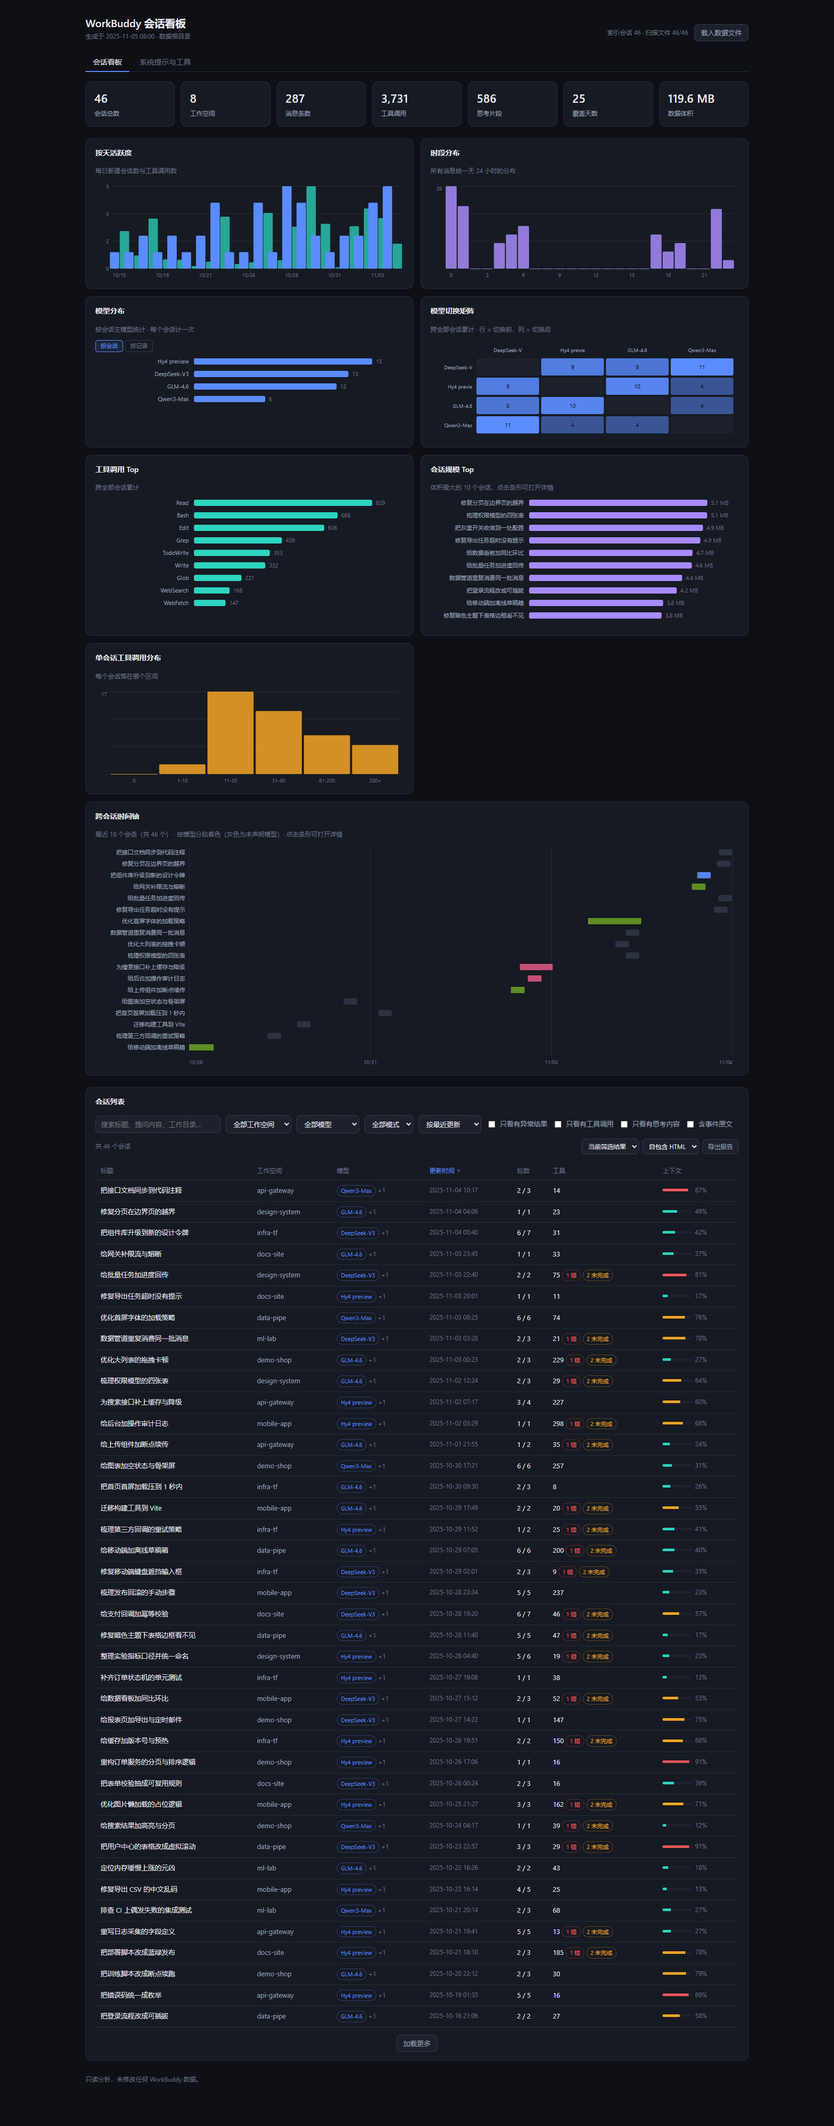
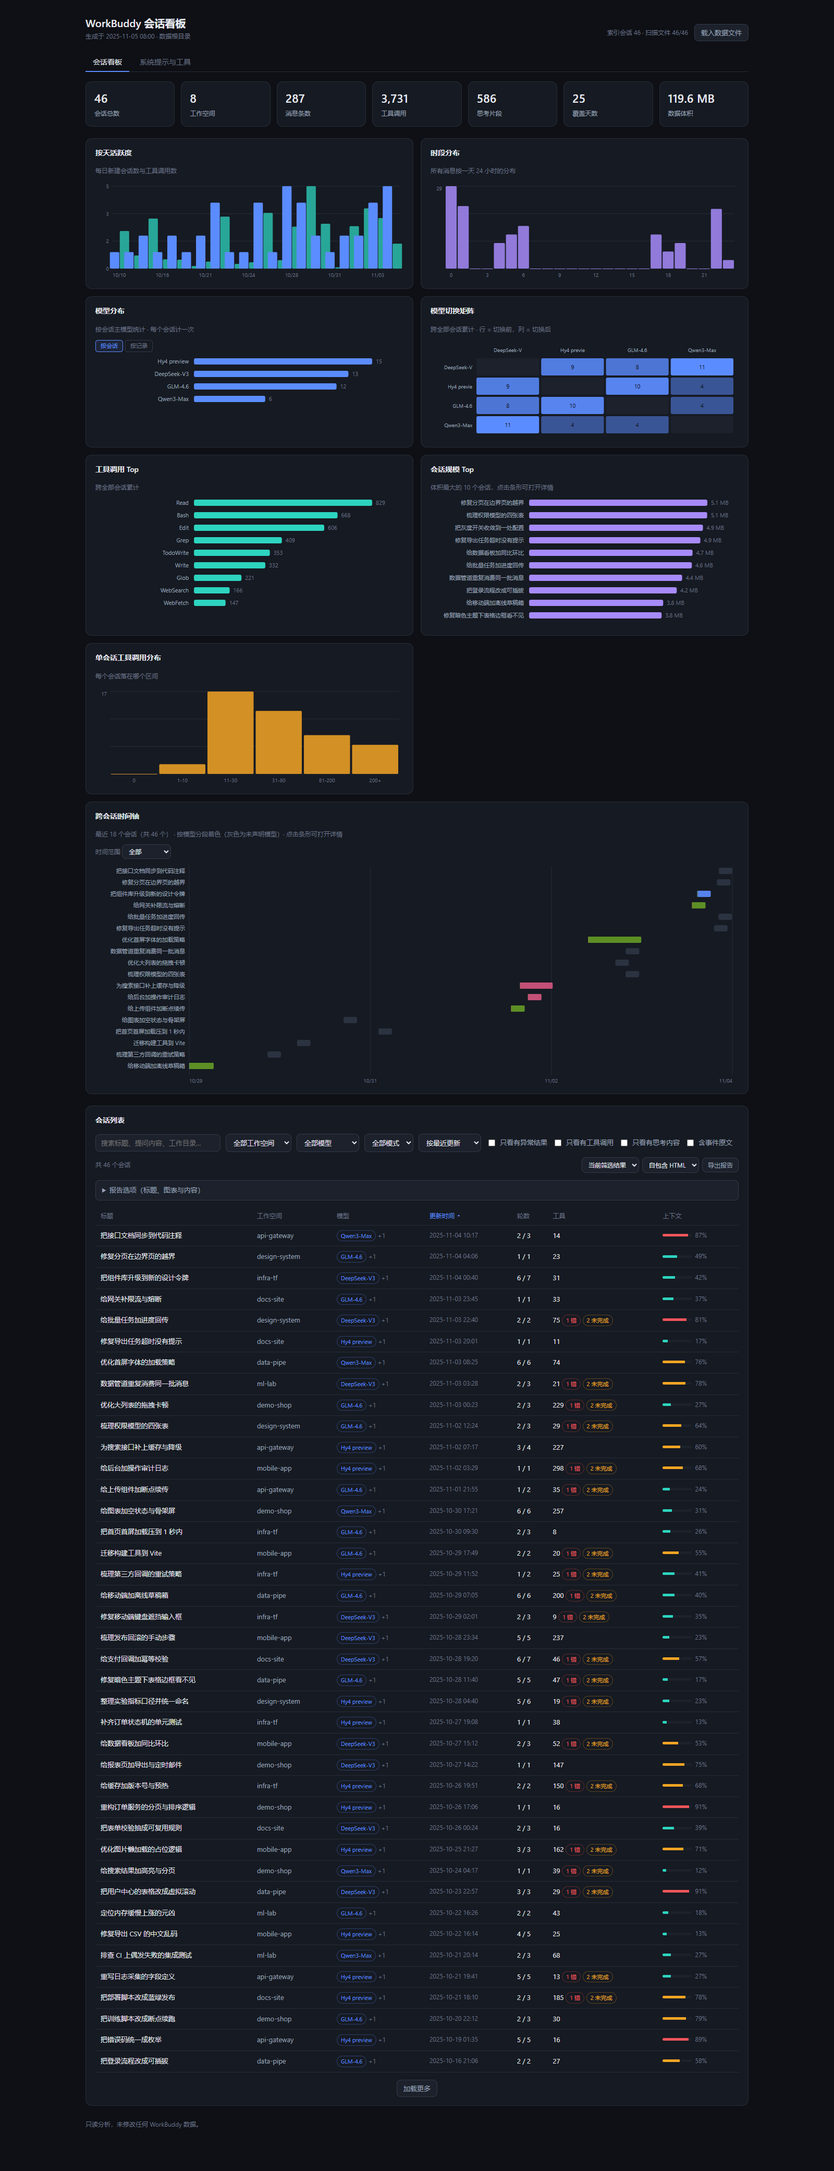
Ship report options and timeline range selection
Rebuild index.html, document the custom report options and the 1/7/30/all timeline range, update the verification counts to 99 checks per engine and a 45-key baseline, and refresh the screenshots affected by the new controls.

diff --git a/index.html b/index.html
@@ -44,6 +44,15 @@
   .report-bar{margin-left:auto;display:inline-flex;gap:6px;align-items:center}
   .report-bar select{font-size:12px;padding:5px 8px}
   .report-bar .btn{font-size:12px;padding:5px 10px}
+  .report-opts{margin:0 0 12px;border:1px solid var(--line2);border-radius:8px;background:var(--panel2)}
+  .report-opts summary{cursor:pointer;padding:8px 12px;font-size:13px;color:var(--txt2)}
+  .report-opts-body{display:flex;flex-wrap:wrap;gap:16px;align-items:flex-start;
+    padding:2px 12px 12px;font-size:12px}
+  .report-opts-body input[type=text]{min-width:250px;font-size:12px}
+  .rpt-title-label{display:flex;flex-direction:column;gap:5px;color:var(--txt3)}
+  .chart-toggles{display:flex;flex-wrap:wrap;gap:8px;margin-top:5px;max-width:640px}
+  .timeline-tools{margin:0 0 8px}
+  .timeline-tools select{font-size:12px;padding:4px 8px}
   .segctl{display:inline-flex;gap:4px;margin:0 0 8px}
   .segctl button{font-size:11px;line-height:1.4;padding:3px 9px;border-radius:5px;
     border:1px solid var(--line2);background:transparent;color:var(--txt3);cursor:pointer}
@@ -266,6 +275,16 @@
     <div class="card wide">
       <h2>跨会话时间轴</h2>
       <div class="sub" id="c-timeline-sub">最近会话 · 按模型分段着色 · 点击条形可打开详情</div>
+      <div class="timeline-tools">
+        <label class="tiny">时间范围
+          <select id="timeline-range" aria-label="时间轴范围">
+            <option value="1">最近 1 天</option>
+            <option value="7">最近 7 天</option>
+            <option value="30">最近 30 天</option>
+            <option value="0" selected>全部</option>
+          </select>
+        </label>
+      </div>
       <div class="chart" id="c-timeline"></div>
     </div>
   </div>
@@ -308,6 +327,20 @@
         <button class="btn" id="rpt-export" type="button">导出报告</button>
       </span>
     </div>
+    <details class="report-opts" id="rpt-opts">
+      <summary>报告选项（标题、图表与内容）</summary>
+      <div class="report-opts-body">
+        <label class="rpt-title-label">报告标题
+          <input type="text" id="rpt-title" value="WorkBuddy 会话看板报告" aria-label="报告标题">
+        </label>
+        <div>
+          <span class="tiny">包含图表（仅 HTML 格式）</span>
+          <div class="chart-toggles" id="rpt-charts"></div>
+        </div>
+        <label class="chk"><input type="checkbox" id="rpt-include-table" checked> 会话表格</label>
+        <label class="chk"><input type="checkbox" id="rpt-include-events" checked> 事件流摘要</label>
+      </div>
+    </details>
     <div style="overflow:auto">
       <table>
         <thead><tr>
@@ -418,7 +451,7 @@
  */
 
 /** @typedef {Object} ProductConfig configuration snapshot shown on the prompts tab */
-const DATA = {"root":"","deploy":true,"source":{"dbOk":false,"dbError":null,"indexedSessions":0,"workspaces":0,"jsonlFiles":0,"scanned":0},"sessions":[],"product":{"ok":false,"error":"部署版不含本地数据，请在页面顶部选中 ~/.workbuddy 目录","meta":{},"agents":[],"tools":[],"prompts":[],"subagents":[],"outputStyles":[],"models":[]},"generatedAt":1793942131509};
+const DATA = {"root":"","deploy":true,"source":{"dbOk":false,"dbError":null,"indexedSessions":0,"workspaces":0,"jsonlFiles":0,"scanned":0},"sessions":[],"product":{"ok":false,"error":"部署版不含本地数据，请在页面顶部选中 ~/.workbuddy 目录","meta":{},"agents":[],"tools":[],"prompts":[],"subagents":[],"outputStyles":[],"models":[]},"generatedAt":1793949760041};
 let S = DATA.sessions || [];
 const $ = id => document.getElementById(id);
 const fmtTime = ms => { const d = new Date(ms); const p = n => String(n).padStart(2,'0');
@@ -857,11 +890,29 @@ function renderMeta(){
 const TIMELINE_ROWS = 18;
 const TIMELINE_ROW_H = 22;
 const TIMELINE_MIN_BAR = 26;   // sessions are minutes long on a days-wide axis
+let timelineRangeDays = 0;     // 0 = all sessions
+
+/** Keep only sessions updated within the last `days`, relative to the newest one. */
+function timelineSessions(sessions, days){
+  const all = (sessions || []).filter(Boolean);
+  if(!days || !all.length) return all;
+  let newest = 0;
+  for(const s of all){ const t = s.updated || 0; if(t > newest) newest = t; }
+  const cutoff = newest - days*86400000;
+  return all.filter(s => (s.updated || 0) >= cutoff);
+}
 
 function drawTimeline(el, sessions){
   if(!el) return;
-  const all = (sessions || []).filter(Boolean);
-  if(!all.length){ el.innerHTML = '<div class="empty">暂无会话</div>'; return; }
+  const source = (sessions || []).filter(Boolean);
+  if(!source.length){ el.innerHTML = '<div class="empty">暂无会话</div>'; return; }
+  const all = timelineSessions(source, timelineRangeDays);
+  if(!all.length){
+    el.innerHTML = '<div class="empty">该时间范围内没有会话，请放宽时间范围</div>';
+    const emptySub = $('c-timeline-sub');
+    if(emptySub) emptySub.textContent = '最近 ' + timelineRangeDays + ' 天没有会话';
+    return;
+  }
   const recent = all.slice().sort((a,b) => (b.updated||0) - (a.updated||0)).slice(0, TIMELINE_ROWS);
   const w = el.clientWidth || 600;
   const labelW = Math.min(180, Math.max(90, w*0.28));
@@ -901,31 +952,41 @@ function drawTimeline(el, sessions){
     s += '<text x="'+(labelW-8)+'" y="'+(y+13)+'" text-anchor="end" fill="#9aa4b8" font-size="11">'
       + esc(clip(session.title || session.id || '(无标题)', 18))
       + '<title>'+esc(session.title||'')+'</title></text>';
-    s += '<rect x="'+x0+'" y="'+(y+3)+'" width="'+(x1-x0)+'" height="12" rx="3" fill="#2b3240"'
-      + ' data-id="'+esc(session.id)+'" style="cursor:pointer"><title>'
-      + esc((session.title||'')+' · '+fmtTime(start)+' → '+fmtTime(end))+'</title></rect>';
+    s += '<rect x="'+x0+'" y="'+(y+3)+'" width="'+(x1-x0)
+      +'" height="12" rx="3" fill="#2b3240" pointer-events="none"></rect>';
     const segs = (session.modelSegments || []).filter(g => g && g.firstTs != null);
+    const modelNames = [];
     if(segs.length){
       segs.forEach((seg, j) => {
         const segStart = Math.max(start, seg.firstTs);
         const segEnd = j+1 < segs.length ? Math.min(end, segs[j+1].firstTs) : end;
         if(segEnd <= segStart) return;
         const sx = localAt(segStart), ex = Math.max(sx+1, localAt(segEnd));
-        s += '<rect x="'+sx+'" y="'+(y+3)+'" width="'+(ex-sx)+'" height="12" rx="2" fill="'
-          + modelColor(seg.model) + '" opacity=".9" data-id="'+esc(session.id)
-          + '" style="cursor:pointer"><title>'
-          + esc((seg.model||'未知')+' · '+fmtTime(segStart))+'</title></rect>';
+        s += '<rect x="'+sx+'" y="'+(y+3)+'" width="'+(ex-sx)
+          +'" height="12" rx="2" fill="'+modelColor(seg.model)
+          +'" opacity=".9" pointer-events="none"></rect>';
+        const name = seg.model || '未知';
+        if(modelNames[modelNames.length-1] !== name) modelNames.push(name);
       });
     } else {
-      s += '<rect x="'+x0+'" y="'+(y+3)+'" width="'+(x1-x0)+'" height="12" rx="3" fill="'
-        + modelColor(session.model || '') + '" opacity=".85" data-id="'+esc(session.id)
-        + '" style="cursor:pointer"><title>'+esc(session.model||'未知')+'</title></rect>';
+      s += '<rect x="'+x0+'" y="'+(y+3)+'" width="'+(x1-x0)
+        +'" height="12" rx="3" fill="'+modelColor(session.model || '')
+        +'" opacity=".85" pointer-events="none"></rect>';
+      modelNames.push(session.model || '未知');
     }
+    // one transparent overlay per row is the only click target, so a hit test
+    // always lands on the same element regardless of how many segments there are
+    const tip = (session.title||'') + ' · ' + fmtTime(start) + ' → ' + fmtTime(end)
+      + ' · 模型：' + modelNames.join(' → ');
+    s += '<rect x="'+x0+'" y="'+(y+3)+'" width="'+(x1-x0)
+      +'" height="12" rx="3" fill="transparent" data-id="'+esc(session.id)
+      +'" style="cursor:pointer"><title>'+esc(tip)+'</title></rect>';
   });
   s += '</svg>';
   el.innerHTML = s;
   const sub = $('c-timeline-sub');
-  if(sub) sub.textContent = '最近 ' + recent.length + ' 个会话'
+  if(sub) sub.textContent = (timelineRangeDays ? '最近 ' + timelineRangeDays + ' 天 · ' : '')
+    + '最近 ' + recent.length + ' 个会话'
     + (all.length > recent.length ? '（共 ' + all.length + ' 个）' : '')
     + ' · 按模型分段着色（灰色为未声明模型）· 点击条形可打开详情';
   el.querySelectorAll('rect[data-id]').forEach(rect => {
@@ -3031,6 +3092,37 @@ const REPORT_CHART_TITLES = {
   'c-timeline':'跨会话时间轴'
 };
 const REPORT_CHART_IDS = Object.keys(REPORT_CHART_TITLES);
+const REPORT_DEFAULT_TITLE = 'WorkBuddy 会话看板报告';
+
+/** Build the chart checkboxes from the single chart registry. */
+function initReportOptions(){
+  const host = $('rpt-charts');
+  if(!host) return;
+  host.innerHTML = REPORT_CHART_IDS.map(id =>
+    '<label class="chk"><input type="checkbox" data-chart="' + id + '" checked> '
+    + esc(REPORT_CHART_TITLES[id]) + '</label>').join('');
+}
+function selectReportCharts(charts, selected){
+  if(!selected) return charts;
+  return (charts || []).filter(c => selected.indexOf(c.id) >= 0);
+}
+function reportOptions(){
+  const el = id => $(id);
+  const title = String((el('rpt-title') && el('rpt-title').value) || '').trim()
+    || REPORT_DEFAULT_TITLE;
+  const host = el('rpt-charts');
+  const nodes = (host && host.querySelectorAll)
+    ? host.querySelectorAll('input[data-chart]') : [];
+  const selected = [];
+  for(const node of nodes)
+    if(node.checked) selected.push(String(node.getAttribute('data-chart')));
+  return {
+    title,
+    charts: nodes.length ? selected : REPORT_CHART_IDS.slice(),
+    includeTable: !el('rpt-include-table') || el('rpt-include-table').checked,
+    includeEvents: !el('rpt-include-events') || el('rpt-include-events').checked
+  };
+}
 const REPORT_SCOPE_LABELS = {filtered:'当前筛选结果', session:'当前打开会话'};
 
 /** Whitelist + mask: File handles, raw JSON and the local root never leave. */
@@ -3058,6 +3150,7 @@ function reportContext(scope){
   // an unopened drawer must not silently export every session
   const source = scope === 'session' ? (cur ? [cur] : []) : filtered();
   const sessions = source.map(reportSession).filter(Boolean);
+  const options = reportOptions();
   const charts = REPORT_CHART_IDS.map(id => {
     const el = $(id);
     const svg = el ? el.innerHTML.split(' xmlns="http://www.w3.org/2000/svg"').join('') : '';
@@ -3065,7 +3158,8 @@ function reportContext(scope){
   });
   const sum = key => sessions.reduce((a,s) => a + (s[key] || 0), 0);
   return {
-    scope, generatedAt: Date.now(), sessions, charts, filters: reportFilters(),
+    scope, generatedAt: Date.now(), sessions, options,
+    charts: selectReportCharts(charts, options.charts), filters: reportFilters(),
     kpis: {
       sessions: sessions.length,
       turns: sum('turnsUser') + sum('turnsAssistant'),
@@ -3107,39 +3201,44 @@ function buildCsvReport(ctx){
 }
 
 function buildMarkdownReport(ctx){
-  const k = ctx.kpis, out = [];
-  out.push('# WorkBuddy 会话看板报告');
+  const k = ctx.kpis, options = ctx.options, out = [];
+  out.push('# ' + options.title);
   out.push('');
   out.push('- 生成时间：' + fmtTime(ctx.generatedAt));
   out.push('- 范围：' + (REPORT_SCOPE_LABELS[ctx.scope] || ctx.scope));
   out.push('- 筛选条件：' + (ctx.filters.length ? ctx.filters.join('；') : '无条件'));
+  out.push('- 已选图表：' + ctx.charts.length + ' 张（Markdown 不嵌图片，需要图表请用自包含 HTML 格式）');
   out.push('- 会话数：' + k.sessions + ' · 消息：' + k.turns + ' · 工具调用：' + k.tools
     + ' · 报错：' + k.errors + ' · 未完成：' + k.incomplete + ' · 总体积：' + fmtBytes(k.bytes));
   out.push('');
-  out.push('## 会话列表');
-  out.push('');
-  out.push('| ' + REPORT_CSV_COLUMNS.slice(0,9).map(c => c[0]).join(' | ') + ' |');
-  out.push('| ' + REPORT_CSV_COLUMNS.slice(0,9).map(() => '---').join(' | ') + ' |');
-  for(const s of ctx.sessions)
-    out.push('| ' + REPORT_CSV_COLUMNS.slice(0,9).map(c => mdCell(c[1](s))).join(' | ') + ' |');
+  if(options.includeTable){
+    out.push('## 会话列表');
+    out.push('');
+    out.push('| ' + REPORT_CSV_COLUMNS.slice(0,9).map(c => c[0]).join(' | ') + ' |');
+    out.push('| ' + REPORT_CSV_COLUMNS.slice(0,9).map(() => '---').join(' | ') + ' |');
+    for(const s of ctx.sessions)
+      out.push('| ' + REPORT_CSV_COLUMNS.slice(0,9).map(c => mdCell(c[1](s))).join(' | ') + ' |');
+    out.push('');
+  }
   if(ctx.scope === 'session' && ctx.sessions.length){
     const s = ctx.sessions[0];
-    out.push('');
     out.push('## 会话详情：' + s.title);
     out.push('');
     out.push('- 工作空间：' + s.ws + ' · 主模型：' + s.model);
     out.push('- 使用过的模型：' + (s.models.join('、') || '未知'));
     out.push('- 首条提问：' + (s.prompt || '（无）'));
+    if(options.includeEvents){
+      out.push('');
+      out.push('### 事件流摘要（前 50 条，不含原始 JSON）');
+      out.push('');
+      out.push('| 时间 | 类型 | 模型 | 记录大小 |');
+      out.push('| --- | --- | --- | --- |');
+      for(const e of s.events)
+        out.push('| ' + [fmtTime(e.t), mdCell(KIND_LABEL[e.k] || e.k),
+          mdCell(e.model), fmtBytes(e.size)].join(' | ') + ' |');
+    }
     out.push('');
-    out.push('### 事件流摘要（前 50 条，不含原始 JSON）');
-    out.push('');
-    out.push('| 时间 | 类型 | 模型 | 记录大小 |');
-    out.push('| --- | --- | --- | --- |');
-    for(const e of s.events)
-      out.push('| ' + [fmtTime(e.t), mdCell(KIND_LABEL[e.k] || e.k),
-        mdCell(e.model), fmtBytes(e.size)].join(' | ') + ' |');
   }
-  out.push('');
   out.push('> 本报告由本地浏览器生成，不含账号名、本机路径与原始会话内容。');
   return out.join(NL) + NL;
 }
@@ -3173,11 +3272,12 @@ const REPORT_CSS = 'body{margin:0;padding:28px;background:#0e1015;color:#e7eaf0;
   + '}@page{margin:12mm}';
 
 function buildHtmlReport(ctx){
-  const k = ctx.kpis;
+  const k = ctx.kpis, options = ctx.options;
+  const title = esc(options.title);
   let h = '<!DOCTYPE html><html lang="zh-CN"><head><meta charset="utf-8">'
     + '<meta name="viewport" content="width=device-width,initial-scale=1">'
-    + '<title>WorkBuddy 会话看板报告</title><style>' + REPORT_CSS + '</style></head><body>';
-  h += '<h1>WorkBuddy 会话看板报告</h1>'
+    + '<title>' + title + '</title><style>' + REPORT_CSS + '</style></head><body>';
+  h += '<h1>' + title + '</h1>'
     + '<div class="tiny">生成于 ' + esc(fmtTime(ctx.generatedAt)) + ' · 范围：'
     + esc(REPORT_SCOPE_LABELS[ctx.scope] || ctx.scope) + ' · 纯本地生成，无外部资源</div>';
   h += '<div class="chips">' + ctx.filters.map(f => '<span>' + esc(f) + '</span>').join('')
@@ -3187,30 +3287,38 @@ function buildHtmlReport(ctx){
     ['报错',k.errors], ['未完成',k.incomplete], ['调用未收到结果',k.unanswered],
     ['总体积',fmtBytes(k.bytes)]
   ]) h += '<div class="kpi"><b>' + esc(value) + '</b><span>' + esc(label) + '</span></div>';
-  h += '</div><h2>图表快照</h2><div class="charts">';
-  for(const chart of ctx.charts)
-    if(chart.svg) h += '<section><h3>' + esc(chart.title) + '</h3>' + chart.svg + '</section>';
-  h += '</div><h2>会话列表</h2><table><thead><tr>';
-  for(const col of REPORT_CSV_COLUMNS.slice(0,9)) h += '<th>' + esc(col[0]) + '</th>';
-  h += '</tr></thead><tbody>';
-  for(const s of ctx.sessions){
-    h += '<tr>';
-    for(const col of REPORT_CSV_COLUMNS.slice(0,9)) h += '<td>' + esc(col[1](s)) + '</td>';
-    h += '</tr>';
+  h += '</div>';
+  if(ctx.charts.length){
+    h += '<h2>图表快照（' + ctx.charts.length + ' 张）</h2><div class="charts">';
+    for(const chart of ctx.charts)
+      if(chart.svg) h += '<section><h3>' + esc(chart.title) + '</h3>' + chart.svg + '</section>';
+    h += '</div>';
   }
-  h += '</tbody></table>';
+  if(options.includeTable){
+    h += '<h2>会话列表</h2><table><thead><tr>';
+    for(const col of REPORT_CSV_COLUMNS.slice(0,9)) h += '<th>' + esc(col[0]) + '</th>';
+    h += '</tr></thead><tbody>';
+    for(const s of ctx.sessions){
+      h += '<tr>';
+      for(const col of REPORT_CSV_COLUMNS.slice(0,9)) h += '<td>' + esc(col[1](s)) + '</td>';
+      h += '</tr>';
+    }
+    h += '</tbody></table>';
+  }
   if(ctx.scope === 'session' && ctx.sessions.length){
     const s = ctx.sessions[0];
     h += '<h2>会话详情：' + esc(s.title) + '</h2>'
       + '<p class="tiny">工作空间：' + esc(s.ws) + ' · 主模型：' + esc(s.model)
       + ' · 使用过的模型：' + esc(s.models.join('、') || '未知') + '</p>'
-      + '<p>' + esc(s.prompt || '（无首条提问）') + '</p>'
-      + '<h3>事件流摘要（前 50 条，不含原始 JSON）</h3>'
-      + '<table><thead><tr><th>时间</th><th>类型</th><th>模型</th><th>记录大小</th></tr></thead><tbody>';
-    for(const e of s.events)
-      h += '<tr><td>' + esc(fmtTime(e.t)) + '</td><td>' + esc(KIND_LABEL[e.k] || e.k)
-        + '</td><td>' + esc(e.model) + '</td><td>' + esc(fmtBytes(e.size)) + '</td></tr>';
-    h += '</tbody></table>';
+      + '<p>' + esc(s.prompt || '（无首条提问）') + '</p>';
+    if(options.includeEvents){
+      h += '<h3>事件流摘要（前 50 条，不含原始 JSON）</h3>'
+        + '<table><thead><tr><th>时间</th><th>类型</th><th>模型</th><th>记录大小</th></tr></thead><tbody>';
+      for(const e of s.events)
+        h += '<tr><td>' + esc(fmtTime(e.t)) + '</td><td>' + esc(KIND_LABEL[e.k] || e.k)
+          + '</td><td>' + esc(e.model) + '</td><td>' + esc(fmtBytes(e.size)) + '</td></tr>';
+      h += '</tbody></table>';
+    }
   }
   h += '<footer>本报告由本地浏览器生成，不含账号名、本机路径与原始会话内容。</footer>'
     + '</body></html>';
@@ -3244,7 +3352,12 @@ function downloadReport(){
   setTimeout(() => URL.revokeObjectURL(url), 1000);
   return link.download;
 }
+initReportOptions();
 $('rpt-export').onclick = downloadReport;
+$('timeline-range').onchange = () => {
+  timelineRangeDays = Math.max(0, parseInt($('timeline-range').value, 10) || 0);
+  drawTimeline($('c-timeline'), S);
+};
 
 const needData = DATA.deploy || !S.length;
 $('loadbox').style.display = needData ? '' : 'none';

diff --git a/README.md b/README.md
@@ -67,8 +67,10 @@ HTML 版把八张图表、KPI、会话表格与（单会话范围下的）事件
 **不引用任何外部资源**；带 `@media print` 打印样式，浏览器「打印 / 存为 PDF」即可得到白底可读版本。
 CSV 带 UTF-8 BOM，Excel 可直接打开；Markdown 适合贴进笔记或仓库。
 三种格式都会记录**生成时的筛选条件**（搜索词、工作空间、模型、排序、模型口径与各个复选框），
-报告因此可以复现。导出前按白名单取字段并统一脱敏：原始 JSON 内容、File 句柄、本机根目录、
-账号名都不会写进报告。
+报告因此可以复现。工具栏下方的「**报告选项**」还能自定义报告标题、勾选要包含哪几张图表、
+以及是否包含会话表格与事件流摘要；默认全选。图表开关只对 HTML 格式生效（Markdown 不嵌图片，
+CSV 的本体就是会话表格，因此这两者始终保留表格）。导出前按白名单取字段并统一脱敏：
+原始 JSON 内容、File 句柄、本机根目录、账号名都不会写进报告。
 
 详情面板顶部有独立的「**在当前会话的事件流里查找**」输入框，只过滤当前会话已载入的事件。
 命中处会用高亮标出，预览窗口会自动移到命中位置附近（即使它远在记录的前 240 字符之外），
@@ -125,7 +127,9 @@ CSV 带 UTF-8 BOM，Excel 可直接打开；Markdown 适合贴进笔记或仓库
 
 最近 18 个会话排布在共享时间轴上，条形按该会话的模型分段着色；灰色表示记录未声明模型。
 因为单个会话只有几分钟而全局轴跨数天，条形有最小可见宽度、段内按会话自身时长缩放，
-绝对位置仍然准确。点击任意条形可打开对应会话。
+绝对位置仍然准确。点击任意条形可打开对应会话，悬停可看到时间范围与模型序列。
+卡片上的「时间范围」可选**最近 1 天 / 7 天 / 30 天 / 全部**，以数据里最新的会话为基准缩放，
+因此旧快照也能用；默认「全部」。
 
 ![跨会话时间轴](images/screenshot-timeline.png)
 
@@ -173,7 +177,7 @@ CSV 带 UTF-8 BOM，Excel 可直接打开；Markdown 适合贴进笔记或仓库
 ## 开发验证
 
 开发工作副本里保留五套验证工具，模板改动后应全部跑通。当前真实浏览器用例为
-**Chromium / Firefox / WebKit 各 92 项，共 276 项**：
+**Chromium / Firefox / WebKit 各 99 项，共 297 项**：
 
 - `node smoke-test.js`：模板语法、静态隐私扫描、纯逻辑与渲染字符串断言（Node VM + DOM 桩）
 - `node browser-test.js`：浏览器侧解析、缓存续解析、目录选择、拖放保护等流程（Node VM + DOM 桩）
@@ -184,8 +188,8 @@ CSV 带 UTF-8 BOM，Excel 可直接打开；Markdown 适合贴进笔记或仓库
 - `python performance-profile.py`：用完全合成的大规模会话（约 15 MB / 3 万条记录 + 60 个中等会话）
   在真实浏览器里剖析载入、续解析、翻页、搜索与渲染耗时，不读取任何真实用户数据
 - `python behavior-snapshot.py --save` / `--compare`：把真实浏览器里列表、**八张图表**、抽屉、
-  提示页、导出控件以及筛选/搜索/排序后的关键 DOM 输出逐字节比对齐（41 个 DOM 键），
-  另外比对两处截图哈希作为视觉基线，共 43 个键。用来证明重构没有改变外部行为。
+  提示页、导出控件、报告选项、时间轴控件以及筛选/搜索/排序后的关键 DOM 输出逐字节比对
+  （43 个 DOM 键），另外比对两处截图哈希作为视觉基线，共 45 个键。用来证明重构没有改变外部行为。
 
 `python demo_gen.py` 用虚构数据生成演示页（真实浏览器测试与文档截图都加载它）；设
 `WB_DEMO_NOW=<毫秒时间戳>` 可固定数据时钟，让截图与行为基线完全可复现。
